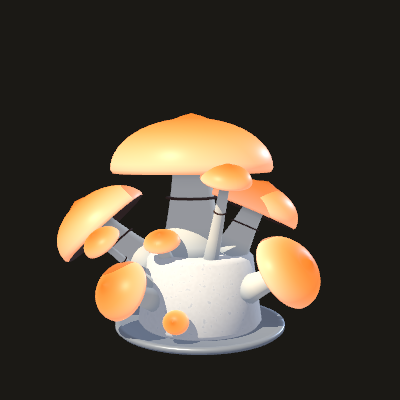
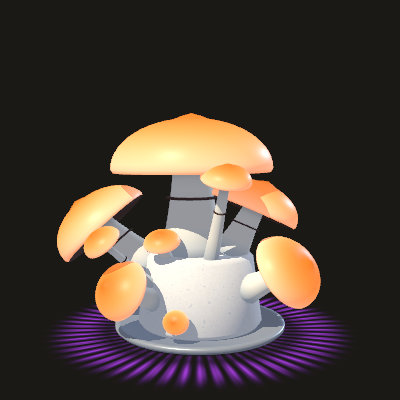
docs: launch-ready README with GIFs, license, requirements and removal steps
Also replaces the beat rings with a purple spore print, launches the audio
helper from ~/Applications, and adds an experimental --m5 state broadcaster.

Changed region(s): [[0.12, 0.72, 0.87, 0.99]]

diff --git a/README.md b/README.md
@@ -1,10 +1,12 @@
 # Mushroom Widget
 
-A 3D PF Tek cake that sits on your Mac desktop, grows psilocybin mushrooms while music plays, and bounces to the beat.
+A desktop toy for Mac: a 3D PF Tek cake that floats on your desktop, grows mushrooms while your music plays, and bounces to the beat. For anyone who wants a small music visualizer that is alive instead of a bar graph.
+
+| A full cake in ten seconds | Reacting to a beat |
+|---|---|
+| ![The cake colonizing, pinning, fruiting and decaying while turning](docs/media/grow-cycle.gif) | ![The cake pulsing, caps flashing and the spore print surging on each kick](docs/media/beat-loop.gif) |
 
 ![Six views: cubensis fruiting, the beat glow, a colonizing cake, azurescens, semilanceata, Panaeolus cyanescens](docs/media/overview.png)
-
-![The cake growing and pulsing to a test beat](docs/media/beat-loop.gif)
 
 Built with Godot 4.7 (one script, [main.gd](main.gd)) and a small Swift helper that listens to system audio.
 
@@ -14,7 +16,7 @@ Built with Godot 4.7 (one script, [main.gd](main.gd)) and a small Swift helper t
 |---|---|
 | **Grows on music** | The cake creeps along on its own (about an hour per cake) and grows about three times faster while audio is playing. Louder music and a misted cake grow faster still. |
 | **Four stages** | Colonization (mycelium takes over the brown cake in patches), Pinning, Fruiting, Decay. |
-| **Reacts to the beat** | The cake squashes and the mushrooms swell on the kick, wobble with the mids, the caps flash, a ring ripples out, and fruiting cakes throw spores. |
+| **Reacts to the beat** | The cake squashes and the mushrooms swell on the kick, wobble with the mids, the caps flash, a purple spore print on the table surges outward, and fruiting cakes throw spores. |
 | **Ten species** | Each new cake is the next species (list below). |
 | **Just the cake** | Transparent, borderless, always on top, slowly turning. No text. |
 
@@ -24,13 +26,25 @@ Built with Godot 4.7 (one script, [main.gd](main.gd)) and a small Swift helper t
 - **Mist** raises humidity (faster growth). **Harvest** works while fruiting; once the cake decays it becomes **New cake**.
 - **Drag** anywhere to move it. **Esc** or **×** quits. Progress is saved.
 
+## Requirements
+
+- macOS 14.2 or later (the audio helper uses Core Audio process taps). Built and tested on macOS 27, Apple silicon.
+- [Godot 4.7](https://godotengine.org/download/macos/), as `/Applications/Godot.app` or `godot` on your PATH (`brew install --cask godot`).
+- Xcode Command Line Tools, for `swiftc` (`xcode-select --install`).
+- `ffmpeg`, only for rendering video loops.
+
 ## Run it
 
 ```sh
+git clone https://github.com/austin80808/mushroom-widget.git
+cd mushroom-widget
+sh ears/build.sh
 godot --path .
 ```
 
-Or build the app and install it to `~/Applications`:
+`ears/build.sh` compiles the audio helper once. Without it the cake still grows, it just can't hear anything.
+
+To install it as an app in `~/Applications` instead:
 
 ```sh
 tools/make_app.sh
@@ -43,6 +57,8 @@ The app carries a copy of this project and runs it with the Godot installed on t
 `ears/` is **Mushroom Ears**, a tiny background app that taps the Mac's audio output (a Core Audio process tap, macOS 14.2 or later) and sends three loudness numbers (bass, mid, high) to the widget over local UDP. It records nothing, starts with the widget, and quits a few seconds after the widget closes. It works with any output device, including AirPods, with no audio rerouting.
 
 The first time, macOS asks to let Mushroom Ears record system audio. Allow it.
+
+`tools/make_app.sh` installs the helper beside the app, as `~/Applications/MushroomEars.app`, and the widget prefers that copy. macOS gives a helper that sits inside another app's bundle silence instead of audio.
 
 **If the cake stops reacting after a rebuild:** rebuilding the helper changes its signature and macOS silently stops feeding it audio. Clear the stale permission, then start the widget and allow the prompt again:
 
@@ -111,8 +127,27 @@ Pass these after `--`:
 | `--meter` | Print the audio levels once a second |
 | `--input=<device>` | Listen to a microphone instead of system audio |
 | `--track=<file> --seconds=N [--grow-to=X]` | Clip rendering, used by `tools/render_loop.sh` |
+| `--m5=<ip>[:port]` | Experimental: send growth, species and beat levels over UDP (12-byte packets, 20 a second, default port 47810) for a companion display such as an M5Stack. No firmware is included yet. |
+
+## Update and remove
+
+Update: `git pull`, then re-run `tools/make_app.sh` if you installed the app.
+
+Remove:
+
+```sh
+rm -rf ~/Applications/"Mushroom Widget.app" ~/Applications/MushroomEars.app
+rm -rf ~/Library/"Application Support"/Godot/app_userdata/"Mushroom Widget"
+rm -f ~/Library/Logs/MushroomEars.log
+tccutil reset AudioCapture local.mushroom-widget.ears
+```
 
 ## Notes
+
+- This is art. It contains no cultivation instructions, and the "species" are colour and shape presets.
+- Mac only. The widget itself is plain Godot, but the audio helper is Core Audio.
+- Problems and ideas: open an issue. Small pull requests are welcome; a new species is one line in `SPECIES`.
+- MIT licensed, see [LICENSE](LICENSE).
 
 - Godot 4.7 cannot read the BlackHole loopback device on this setup (`AudioUnitRender` error -10863 on every frame), which is why system audio goes through the helper.
 - The save file is `mushroom.cfg` in Godot's user data folder for "Mushroom Widget".
